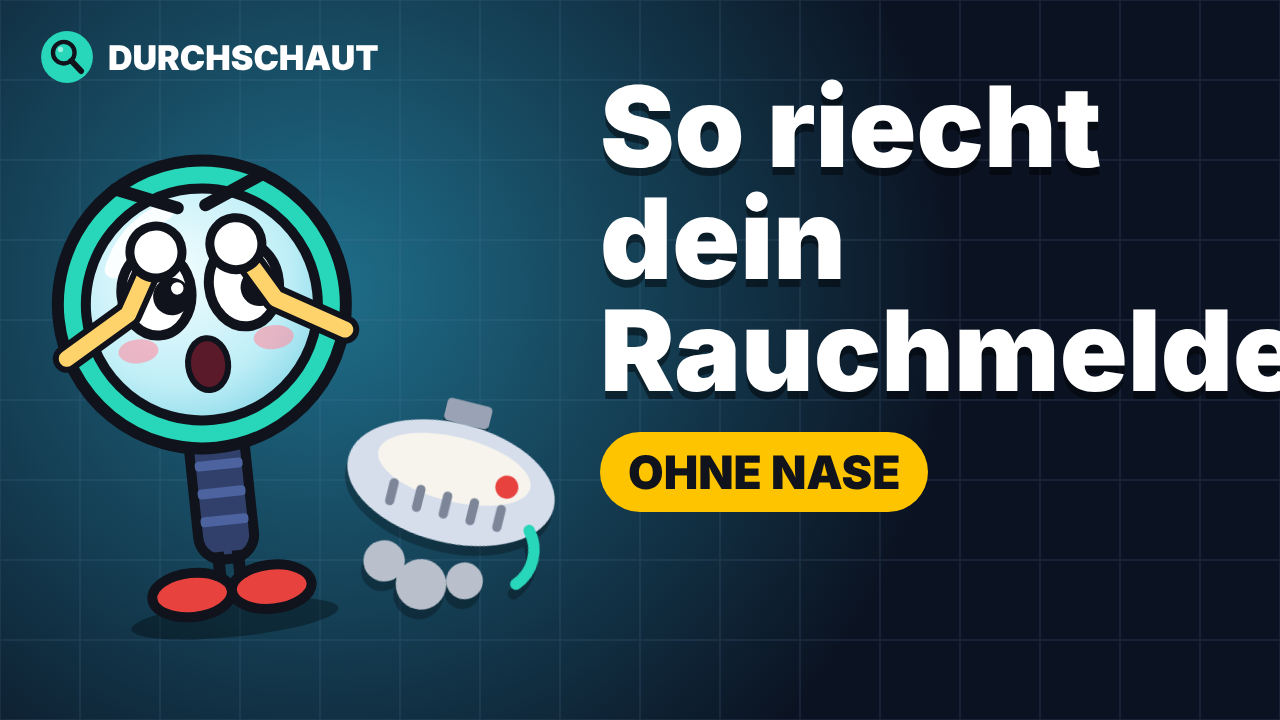
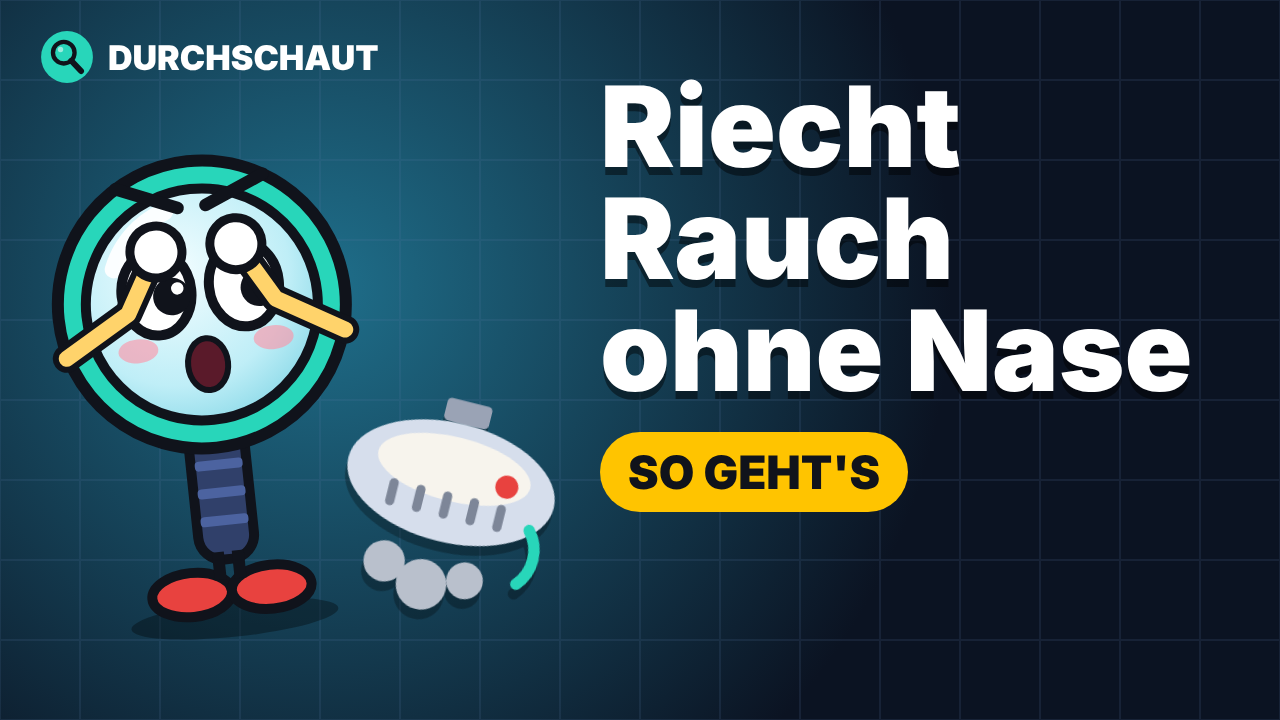
Rauchmelder: Thema als erledigt eingetragen, Thumbnails A/B gekürzt (Text abgeschnitten/überlappt) [skip ci]
Claude-Session: https://claude.ai/code/session_017quWLGXehb9LoBNUd9YNhN

diff --git a/TOPICS.md b/TOPICS.md
@@ -17,10 +17,10 @@
 - 2026-12-03 Wie kommt der Strom in die Steckdose? (`14_strom`, Spezialszene netz)
 - 2026-12-05 Woher weiß die Waschmaschine, wie viel Wäsche drin ist? (`15_waschmaschine`, Spezialszene wasch)
 - 2026-12-07 Woher weiß der Blitzer, wie schnell du bist? (`16_blitzer`, Spezialszene blitzer)
+- 2026-12-09 Wie funktioniert ein Rauchmelder? (`17_rauchmelder`, Spezialszene rauchmelder)
 
 ## Ideen
 - Wie funktioniert eine Automatiktür (Schiebetür im Supermarkt)?
-- Wie funktioniert ein Rauchmelder?
 - Wie funktioniert ein Geldautomat?
 - Wie funktioniert ein Touchscreen?
 - Wie funktioniert eine Ladesäule fürs E-Auto?
